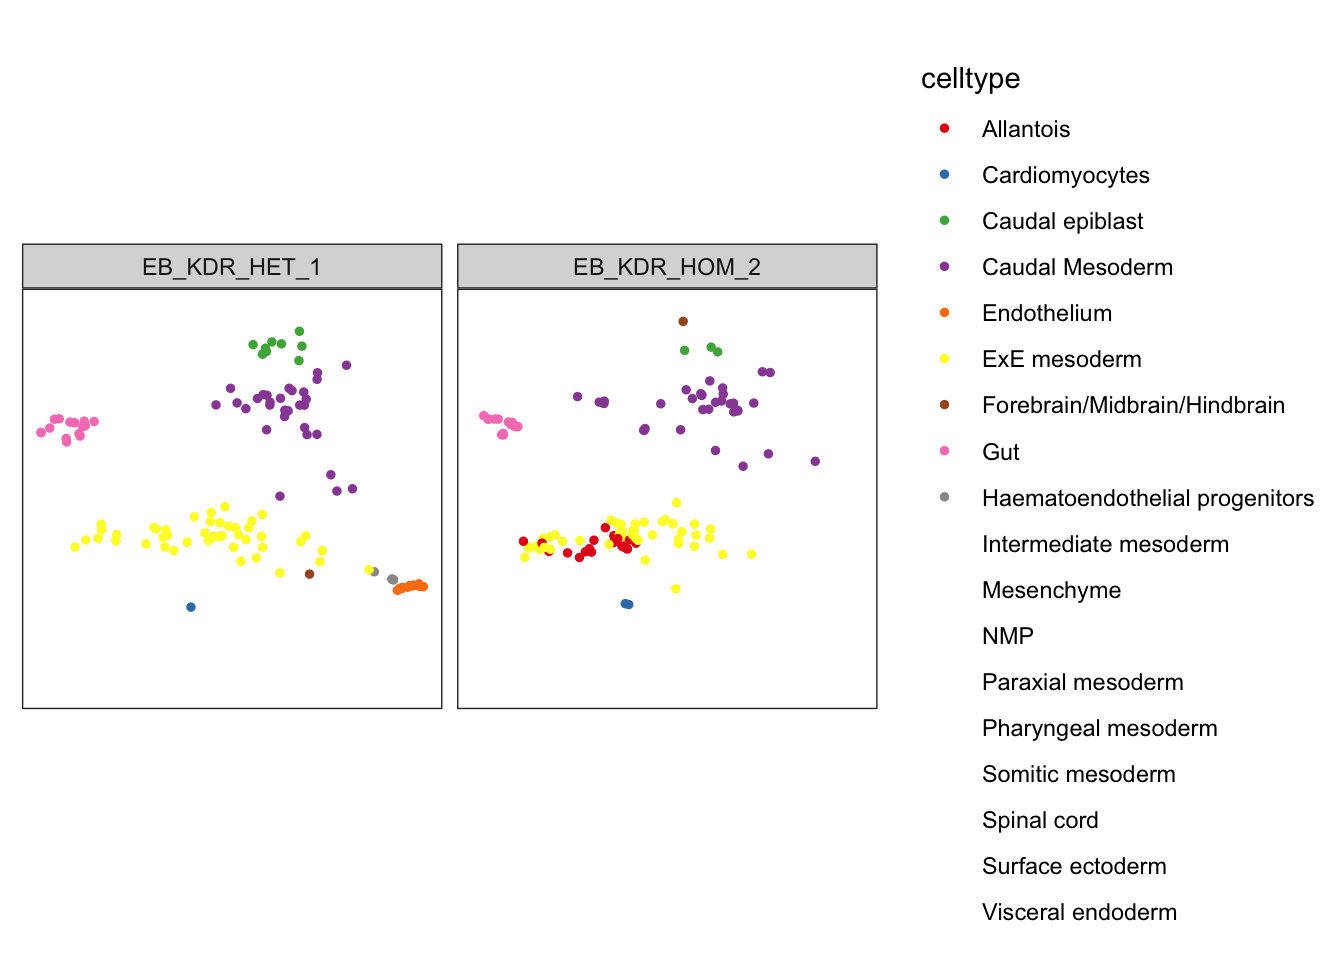
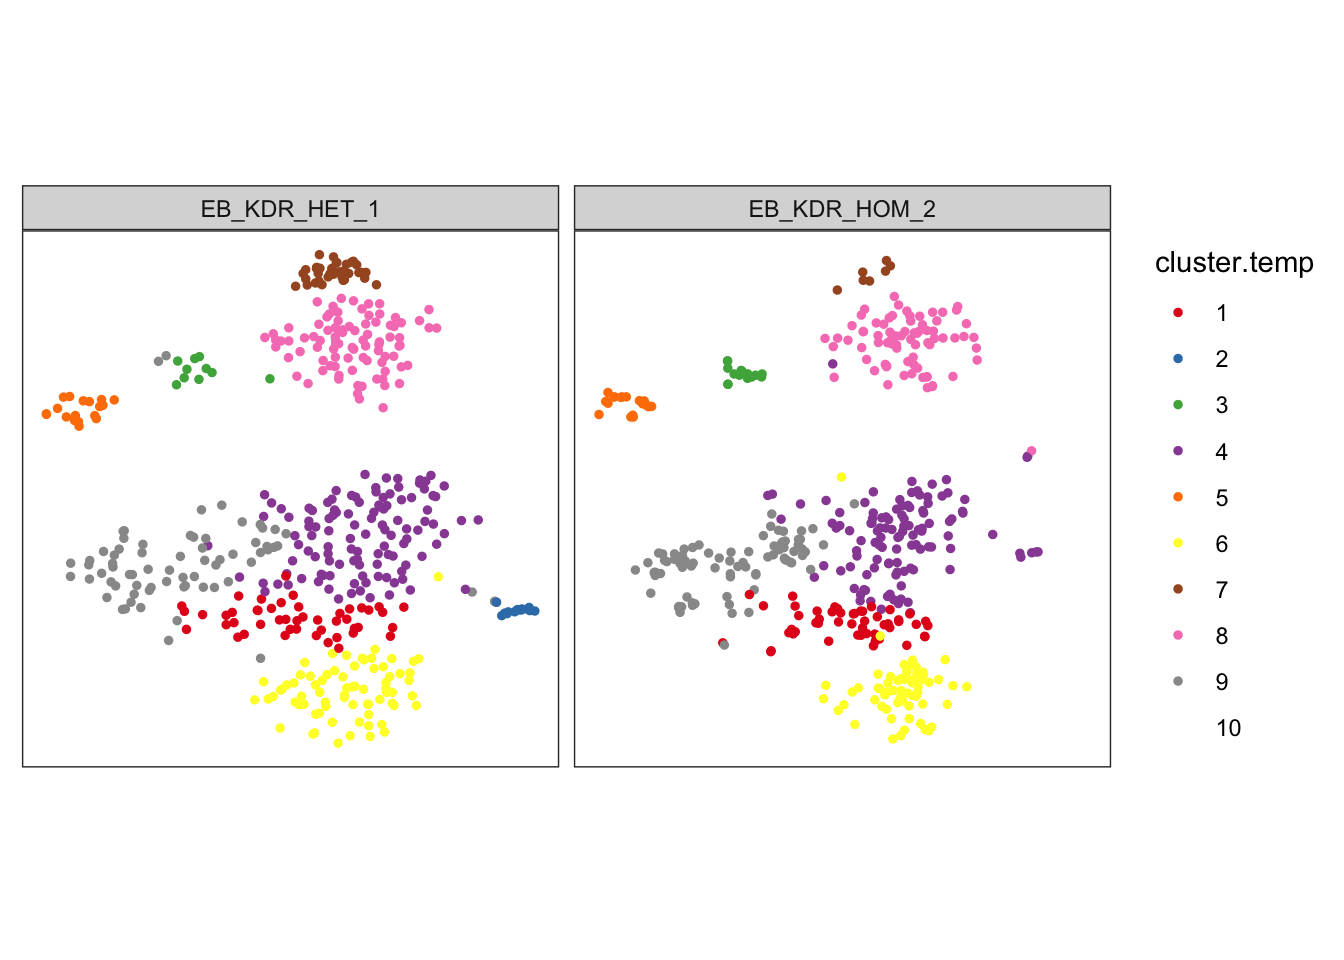
Build

diff --git a/docs/01-batch-integration.html b/docs/01-batch-integration.html
@@ -500,16 +500,16 @@ This reproducible <a href="http://rmarkdown.rstudio.com">R Markdown</a> analysis
 <div class="panel panel-default">
 <div class="panel-heading">
 <p class="panel-title">
-<a data-toggle="collapse" data-parent="#workflowr-checks" href="#strongRepositoryversionstrongahrefhttpsgithubcomjma1991EBKDRtree2a9ae328ff519d21bc63d816d7ac033ea138497ctargetblank2a9ae32a"> <span class="glyphicon glyphicon-ok text-success" aria-hidden="true"></span> <strong>Repository version:</strong> <a href="https://github.com/jma1991/EB_KDR/tree/2a9ae328ff519d21bc63d816d7ac033ea138497c" target="_blank">2a9ae32</a> </a>
+<a data-toggle="collapse" data-parent="#workflowr-checks" href="#strongRepositoryversionstrongahrefhttpsgithubcomjma1991EBKDRtree3f82acfaf75171166852d0f99205d75b9c0491bftargetblank3f82acfa"> <span class="glyphicon glyphicon-ok text-success" aria-hidden="true"></span> <strong>Repository version:</strong> <a href="https://github.com/jma1991/EB_KDR/tree/3f82acfaf75171166852d0f99205d75b9c0491bf" target="_blank">3f82acf</a> </a>
 </p>
 </div>
[2 lines of base64/hex data omitted]
 <div class="panel-body">
 <p>
 Great! You are using Git for version control. Tracking code development and connecting the code version to the results is critical for reproducibility.
 </p>
 <p>
-The results in this page were generated with repository version <a href="https://github.com/jma1991/EB_KDR/tree/2a9ae328ff519d21bc63d816d7ac033ea138497c" target="_blank">2a9ae32</a>. See the <em>Past versions</em> tab to see a history of the changes made to the R Markdown and HTML files.
+The results in this page were generated with repository version <a href="https://github.com/jma1991/EB_KDR/tree/3f82acfaf75171166852d0f99205d75b9c0491bf" target="_blank">3f82acf</a>. See the <em>Past versions</em> tab to see a history of the changes made to the R Markdown and HTML files.
 </p>
 <p>
 Note that you need to be careful to ensure that all relevant files for the analysis have been committed to Git prior to generating the results (you can use <code>wflow_publish</code> or <code>wflow_git_commit</code>). workflowr only checks the R Markdown file, but you know if there are other scripts or data files that it depends on. Below is the status of the Git repository when the results were generated:
@@ -571,6 +571,40 @@ Message
 </tr>
 </thead>
 <tbody>
+<tr>
+<td>
+Rmd
+</td>
+<td>
+<a href="https://github.com/jma1991/EB_KDR/blob/3f82acfaf75171166852d0f99205d75b9c0491bf/analysis/01-batch-integration.Rmd" target="_blank">3f82acf</a>
+</td>
+<td>
+James Ashmore
+</td>
+<td>
+2021-07-15
+</td>
+<td>
+Build
+</td>
+</tr>
+<tr>
+<td>
+html
+</td>
+<td>
+<a href="https://rawcdn.githack.com/jma1991/EB_KDR/56e9932fb72269f3348ea2be7837ef19852afed1/docs/01-batch-integration.html" target="_blank">56e9932</a>
+</td>
+<td>
+James Ashmore
+</td>
+<td>
+2021-07-15
+</td>
+<td>
+Build
+</td>
+</tr>
 <tr>
 <td>
 Rmd
@@ -928,7 +962,7 @@ James Ashmore
 
 mnn &lt;- runTSNE(mnn, dimred = &quot;corrected&quot;)</code></pre>
 <p>Visualize the corrected PCA using a TSNE plot:</p>
-<pre class="r"><code>ggcells(mnn, aes(TSNE.1, TSNE.2, colour = celltype)) +
+<pre class="r"><code>ggcells(mnn, aes(TSNE.1, TSNE.2, colour = cluster.temp)) +
   geom_point(size = 1) + 
   scale_colour_brewer(palette = &quot;Set1&quot;) + 
   labs(x = &quot;TSNE 1&quot;, y = &quot;TSNE 2&quot;) +
@@ -960,6 +994,17 @@ Date
 <tbody>
 <tr>
 <td>
+<a href="https://github.com/jma1991/EB_KDR/blob/56e9932fb72269f3348ea2be7837ef19852afed1/docs/figure/01-batch-integration.Rmd/unnamed-chunk-22-1.png" target="_blank">56e9932</a>
+</td>
+<td>
+James Ashmore
+</td>
+<td>
+2021-07-15
+</td>
+</tr>
+<tr>
+<td>
 <a href="https://github.com/jma1991/EB_KDR/blob/e26ff1adbe461d3a9337bed387e652c043cf386d/docs/figure/01-batch-integration.Rmd/unnamed-chunk-22-1.png" target="_blank">e26ff1a</a>
 </td>
 <td>
@@ -989,7 +1034,7 @@ James Ashmore
 
 mnn &lt;- runUMAP(mnn, dimred = &quot;corrected&quot;)</code></pre>
 <p>Visualize the corrected PCA using a UMAP plot:</p>
-<pre class="r"><code>ggcells(mnn, aes(UMAP.1, UMAP.2, colour = celltype)) +
+<pre class="r"><code>ggcells(mnn, aes(UMAP.1, UMAP.2, colour = cluster.temp)) +
   geom_point(size = 1) +
   scale_colour_brewer(palette = &quot;Set1&quot;) + 
   labs(x = &quot;UMAP 1&quot;, y = &quot;UMAP 2&quot;) +
@@ -1019,6 +1064,17 @@ Date
 </tr>
 </thead>
 <tbody>
+<tr>
+<td>
+<a href="https://github.com/jma1991/EB_KDR/blob/56e9932fb72269f3348ea2be7837ef19852afed1/docs/figure/01-batch-integration.Rmd/unnamed-chunk-24-1.png" target="_blank">56e9932</a>
+</td>
+<td>
+James Ashmore
+</td>
+<td>
+2021-07-15
+</td>
+</tr>
 <tr>
 <td>
 <a href="https://github.com/jma1991/EB_KDR/blob/e26ff1adbe461d3a9337bed387e652c043cf386d/docs/figure/01-batch-integration.Rmd/unnamed-chunk-24-1.png" target="_blank">e26ff1a</a>

diff --git a/docs/about.html b/docs/about.html
@@ -361,16 +361,16 @@ This reproducible <a href="http://rmarkdown.rstudio.com">R Markdown</a> analysis
 <div class="panel panel-default">
 <div class="panel-heading">
 <p class="panel-title">
-<a data-toggle="collapse" data-parent="#workflowr-checks" href="#strongRepositoryversionstrongahrefhttpsgithubcomjma1991EBKDRtree2a9ae328ff519d21bc63d816d7ac033ea138497ctargetblank2a9ae32a"> <span class="glyphicon glyphicon-ok text-success" aria-hidden="true"></span> <strong>Repository version:</strong> <a href="https://github.com/jma1991/EB_KDR/tree/2a9ae328ff519d21bc63d816d7ac033ea138497c" target="_blank">2a9ae32</a> </a>
+<a data-toggle="collapse" data-parent="#workflowr-checks" href="#strongRepositoryversionstrongahrefhttpsgithubcomjma1991EBKDRtree3f82acfaf75171166852d0f99205d75b9c0491bftargetblank3f82acfa"> <span class="glyphicon glyphicon-ok text-success" aria-hidden="true"></span> <strong>Repository version:</strong> <a href="https://github.com/jma1991/EB_KDR/tree/3f82acfaf75171166852d0f99205d75b9c0491bf" target="_blank">3f82acf</a> </a>
 </p>
 </div>
[2 lines of base64/hex data omitted]
 <div class="panel-body">
 <p>
 Great! You are using Git for version control. Tracking code development and connecting the code version to the results is critical for reproducibility.
 </p>
 <p>
-The results in this page were generated with repository version <a href="https://github.com/jma1991/EB_KDR/tree/2a9ae328ff519d21bc63d816d7ac033ea138497c" target="_blank">2a9ae32</a>. See the <em>Past versions</em> tab to see a history of the changes made to the R Markdown and HTML files.
+The results in this page were generated with repository version <a href="https://github.com/jma1991/EB_KDR/tree/3f82acfaf75171166852d0f99205d75b9c0491bf" target="_blank">3f82acf</a>. See the <em>Past versions</em> tab to see a history of the changes made to the R Markdown and HTML files.
 </p>
 <p>
 Note that you need to be careful to ensure that all relevant files for the analysis have been committed to Git prior to generating the results (you can use <code>wflow_publish</code> or <code>wflow_git_commit</code>). workflowr only checks the R Markdown file, but you know if there are other scripts or data files that it depends on. Below is the status of the Git repository when the results were generated:
@@ -379,7 +379,6 @@ Note that you need to be careful to ensure that all relevant files for the analy
 Ignored files:
     Ignored:    .Rproj.user/
     Ignored:    analysis/cache/
-    Ignored:    analysis/figure/
 
 Untracked files:
     Untracked:  _workflowr.R
@@ -433,6 +432,23 @@ Message
 </tr>
 </thead>
 <tbody>
+<tr>
+<td>
+html
+</td>
+<td>
+<a href="https://rawcdn.githack.com/jma1991/EB_KDR/56e9932fb72269f3348ea2be7837ef19852afed1/docs/about.html" target="_blank">56e9932</a>
+</td>
+<td>
+James Ashmore
+</td>
+<td>
+2021-07-15
+</td>
+<td>
+Build
+</td>
+</tr>
 <tr>
 <td>
 html

diff --git a/docs/license.html b/docs/license.html
@@ -361,16 +361,16 @@ This reproducible <a href="http://rmarkdown.rstudio.com">R Markdown</a> analysis
 <div class="panel panel-default">
 <div class="panel-heading">
 <p class="panel-title">
-<a data-toggle="collapse" data-parent="#workflowr-checks" href="#strongRepositoryversionstrongahrefhttpsgithubcomjma1991EBKDRtree2a9ae328ff519d21bc63d816d7ac033ea138497ctargetblank2a9ae32a"> <span class="glyphicon glyphicon-ok text-success" aria-hidden="true"></span> <strong>Repository version:</strong> <a href="https://github.com/jma1991/EB_KDR/tree/2a9ae328ff519d21bc63d816d7ac033ea138497c" target="_blank">2a9ae32</a> </a>
+<a data-toggle="collapse" data-parent="#workflowr-checks" href="#strongRepositoryversionstrongahrefhttpsgithubcomjma1991EBKDRtree3f82acfaf75171166852d0f99205d75b9c0491bftargetblank3f82acfa"> <span class="glyphicon glyphicon-ok text-success" aria-hidden="true"></span> <strong>Repository version:</strong> <a href="https://github.com/jma1991/EB_KDR/tree/3f82acfaf75171166852d0f99205d75b9c0491bf" target="_blank">3f82acf</a> </a>
 </p>
 </div>
[2 lines of base64/hex data omitted]
 <div class="panel-body">
 <p>
 Great! You are using Git for version control. Tracking code development and connecting the code version to the results is critical for reproducibility.
 </p>
 <p>
-The results in this page were generated with repository version <a href="https://github.com/jma1991/EB_KDR/tree/2a9ae328ff519d21bc63d816d7ac033ea138497c" target="_blank">2a9ae32</a>. See the <em>Past versions</em> tab to see a history of the changes made to the R Markdown and HTML files.
+The results in this page were generated with repository version <a href="https://github.com/jma1991/EB_KDR/tree/3f82acfaf75171166852d0f99205d75b9c0491bf" target="_blank">3f82acf</a>. See the <em>Past versions</em> tab to see a history of the changes made to the R Markdown and HTML files.
 </p>
 <p>
 Note that you need to be careful to ensure that all relevant files for the analysis have been committed to Git prior to generating the results (you can use <code>wflow_publish</code> or <code>wflow_git_commit</code>). workflowr only checks the R Markdown file, but you know if there are other scripts or data files that it depends on. Below is the status of the Git repository when the results were generated:
@@ -432,6 +432,23 @@ Message
 </tr>
 </thead>
 <tbody>
+<tr>
+<td>
+html
+</td>
+<td>
+<a href="https://rawcdn.githack.com/jma1991/EB_KDR/56e9932fb72269f3348ea2be7837ef19852afed1/docs/license.html" target="_blank">56e9932</a>
+</td>
+<td>
+James Ashmore
+</td>
+<td>
+2021-07-15
+</td>
+<td>
+Build
+</td>
+</tr>
 <tr>
 <td>
 html

diff --git a/docs/index.html b/docs/index.html
@@ -361,16 +361,16 @@ This reproducible <a href="http://rmarkdown.rstudio.com">R Markdown</a> analysis
 <div class="panel panel-default">
 <div class="panel-heading">
 <p class="panel-title">
-<a data-toggle="collapse" data-parent="#workflowr-checks" href="#strongRepositoryversionstrongahrefhttpsgithubcomjma1991EBKDRtree2a9ae328ff519d21bc63d816d7ac033ea138497ctargetblank2a9ae32a"> <span class="glyphicon glyphicon-ok text-success" aria-hidden="true"></span> <strong>Repository version:</strong> <a href="https://github.com/jma1991/EB_KDR/tree/2a9ae328ff519d21bc63d816d7ac033ea138497c" target="_blank">2a9ae32</a> </a>
+<a data-toggle="collapse" data-parent="#workflowr-checks" href="#strongRepositoryversionstrongahrefhttpsgithubcomjma1991EBKDRtree3f82acfaf75171166852d0f99205d75b9c0491bftargetblank3f82acfa"> <span class="glyphicon glyphicon-ok text-success" aria-hidden="true"></span> <strong>Repository version:</strong> <a href="https://github.com/jma1991/EB_KDR/tree/3f82acfaf75171166852d0f99205d75b9c0491bf" target="_blank">3f82acf</a> </a>
 </p>
 </div>
[2 lines of base64/hex data omitted]
 <div class="panel-body">
 <p>
 Great! You are using Git for version control. Tracking code development and connecting the code version to the results is critical for reproducibility.
 </p>
 <p>
-The results in this page were generated with repository version <a href="https://github.com/jma1991/EB_KDR/tree/2a9ae328ff519d21bc63d816d7ac033ea138497c" target="_blank">2a9ae32</a>. See the <em>Past versions</em> tab to see a history of the changes made to the R Markdown and HTML files.
+The results in this page were generated with repository version <a href="https://github.com/jma1991/EB_KDR/tree/3f82acfaf75171166852d0f99205d75b9c0491bf" target="_blank">3f82acf</a>. See the <em>Past versions</em> tab to see a history of the changes made to the R Markdown and HTML files.
 </p>
 <p>
 Note that you need to be careful to ensure that all relevant files for the analysis have been committed to Git prior to generating the results (you can use <code>wflow_publish</code> or <code>wflow_git_commit</code>). workflowr only checks the R Markdown file, but you know if there are other scripts or data files that it depends on. Below is the status of the Git repository when the results were generated:
@@ -432,6 +432,23 @@ Message
 </tr>
 </thead>
 <tbody>
+<tr>
+<td>
+html
+</td>
+<td>
+<a href="https://rawcdn.githack.com/jma1991/EB_KDR/56e9932fb72269f3348ea2be7837ef19852afed1/docs/index.html" target="_blank">56e9932</a>
+</td>
+<td>
+James Ashmore
+</td>
+<td>
+2021-07-15
+</td>
+<td>
+Build
+</td>
+</tr>
 <tr>
 <td>
 html
